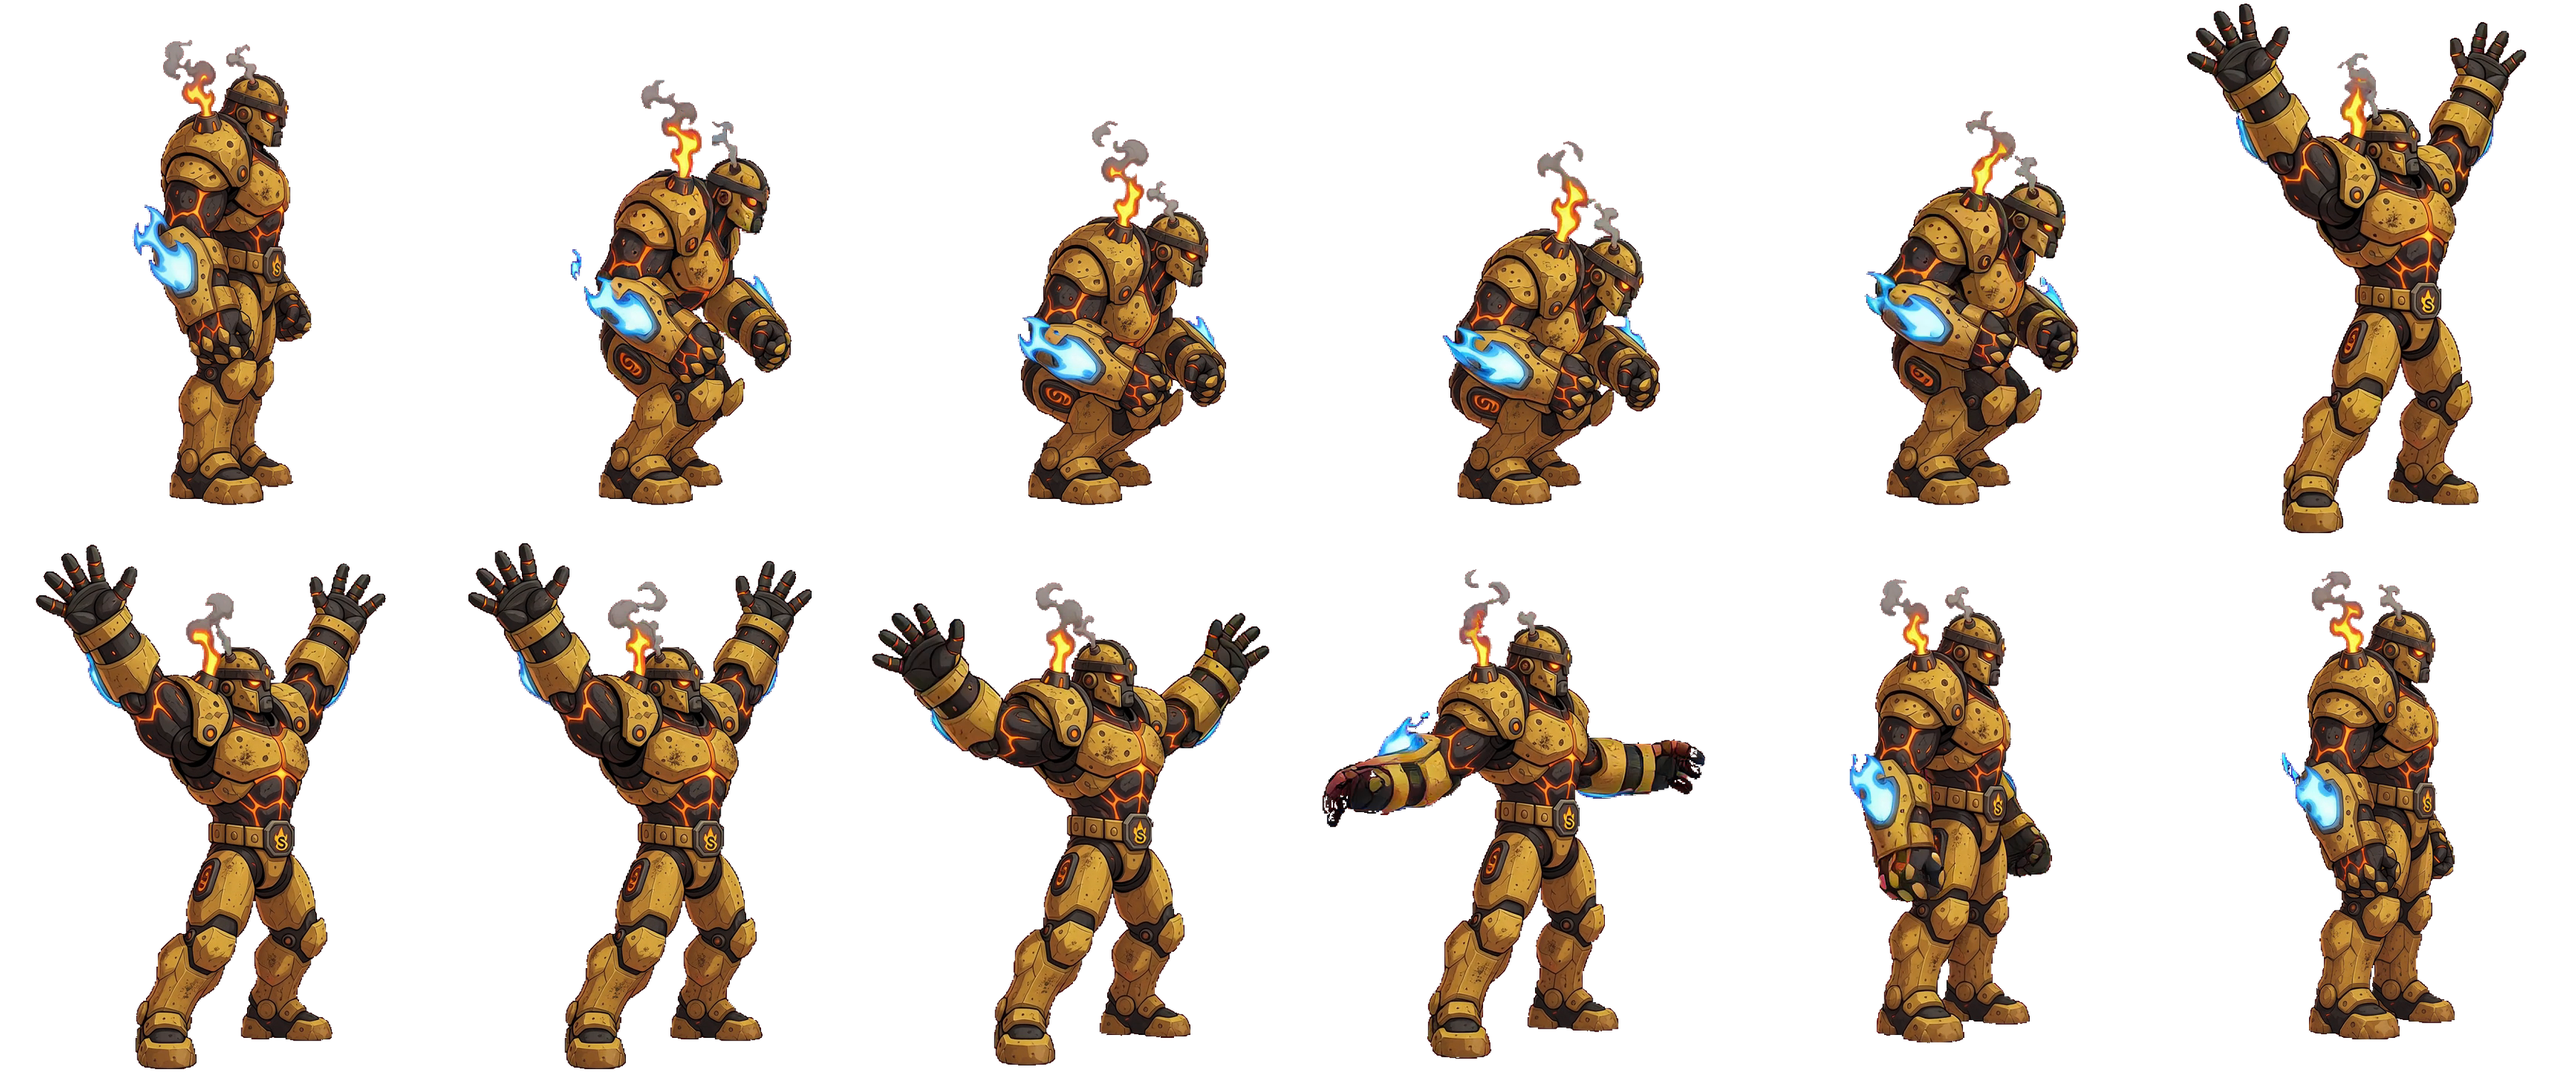
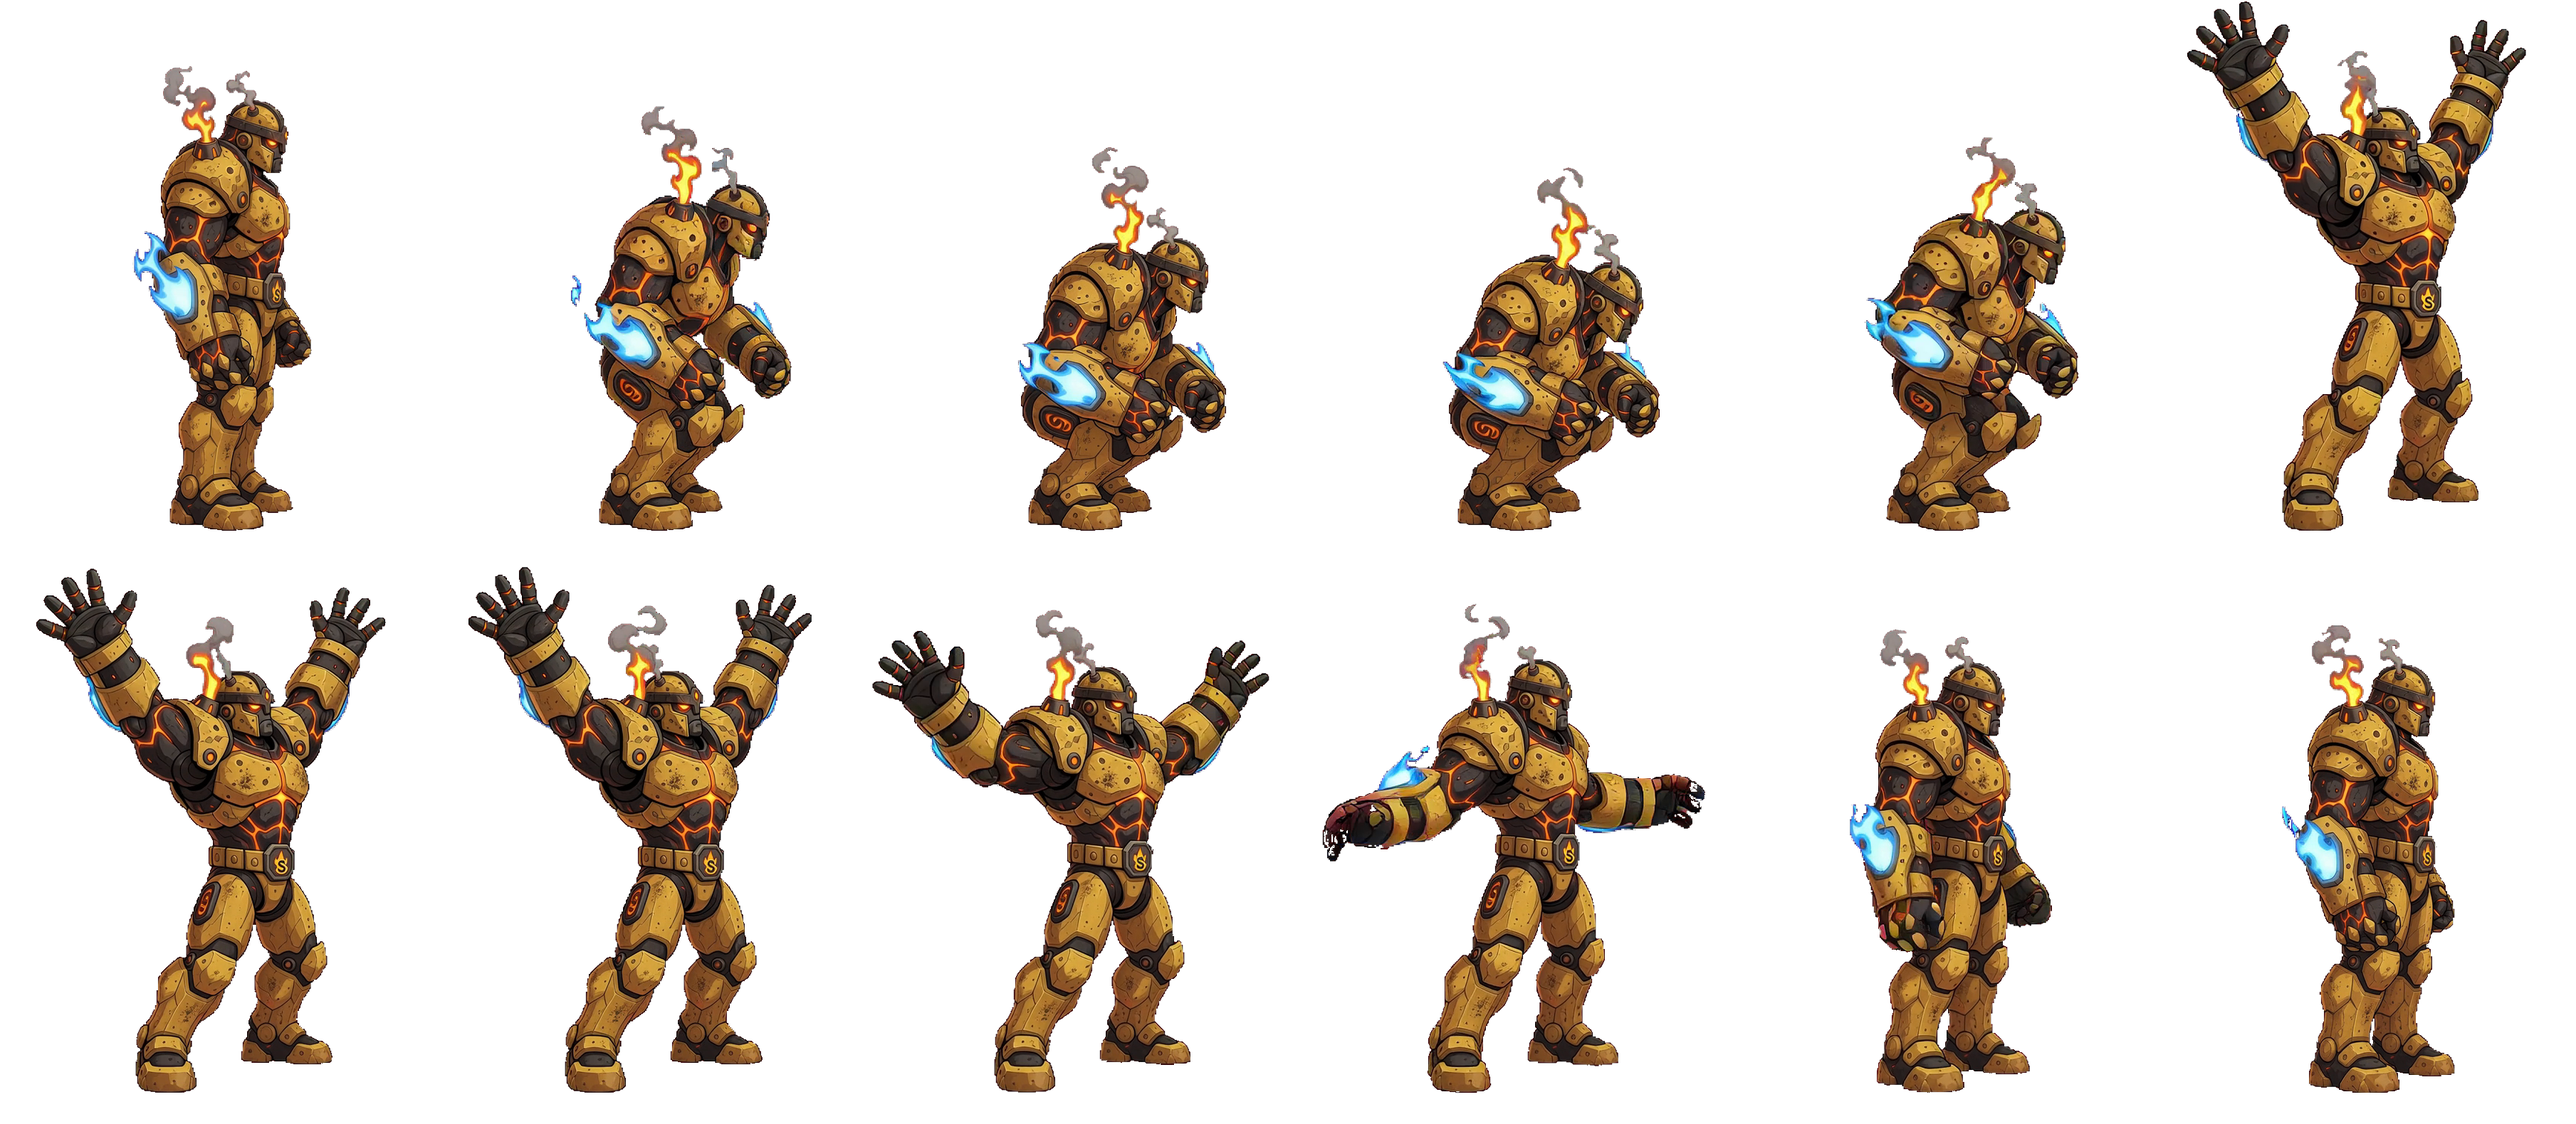
Give Chloe and Chroma walks, ground Liv's Hohlraum, and seat Sully's eruption.
Chloe and Chroma walk on their own right-facing sheets at the idle cell and sole. Liv's defense sheet is the grounded crouch with the new anchors. Sully's eruption cells are 603×790 with every sole on row 745, and the body scale stays the same.

diff --git a/src/data/moveSheets.js b/src/data/moveSheets.js
@@ -6526,151 +6526,151 @@ export const MOVE_SHEETS = {
         "fist": [
           [
             415,
-            401
+            437
           ],
           [
             477,
-            275
+            311
           ],
           [
             490,
-            347
+            383
           ],
           [
             498,
-            381
+            417
           ],
           [
             488,
-            306
+            342
           ],
           [
             532,
-            78
+            75
           ],
           [
             541,
-            89
+            86
           ],
           [
             536,
-            84
+            81
           ],
           [
             576,
-            161
+            163
           ],
           [
             585,
-            314
+            326
           ],
           [
             446,
-            400
+            434
           ],
           [
             413,
-            279
+            317
           ]
         ],
         "tip": [
           [
             437,
-            448
+            484
           ],
           [
             508,
-            482
+            518
           ],
           [
             515,
-            525
+            561
           ],
           [
             521,
-            535
+            571
           ],
           [
             507,
-            477
+            513
           ],
           [
             532,
-            78
+            75
           ],
           [
             541,
-            89
+            86
           ],
           [
             536,
-            84
+            81
           ],
           [
             576,
-            161
+            163
           ],
           [
             585,
-            314
+            326
           ],
           [
             469,
-            449
+            483
           ],
           [
             432,
-            454
+            492
           ]
         ],
         "feet": [
           [
             369,
-            708
+            745
           ],
           [
             369,
-            708
+            745
           ],
           [
             369,
-            708
+            745
           ],
           [
             369,
-            708
+            745
           ],
           [
             367,
-            708
+            745
           ],
           [
             465,
-            708
+            745
           ],
           [
             466,
-            708
+            745
           ],
           [
             467,
-            708
+            745
           ],
           [
             465,
-            708
+            745
           ],
           [
             463,
-            708
+            745
           ],
           [
             346,
-            708
+            745
           ],
           [
             354,
-            708
+            745
           ]
         ]
       }
@@ -10304,39 +10304,39 @@ export const MOVE_SHEETS = {
           ],
           [
             544,
-            528
+            538
           ],
           [
             539,
-            324
+            488
           ],
           [
             537,
-            333
+            497
           ],
           [
             537,
-            333
+            483
           ],
           [
             537,
-            333
+            477
           ],
           [
             538,
-            334
+            478
           ],
           [
             537,
-            333
+            477
           ],
           [
             537,
-            326
+            471
           ],
           [
             520,
-            378
+            416
           ],
           [
             517,
@@ -10354,39 +10354,39 @@ export const MOVE_SHEETS = {
           ],
           [
             544,
-            528
+            538
           ],
           [
             539,
-            324
+            488
           ],
           [
             537,
-            333
+            497
           ],
           [
             537,
-            333
+            483
           ],
           [
             537,
-            333
+            477
           ],
           [
             538,
-            334
+            478
           ],
           [
             537,
-            333
+            477
           ],
           [
             537,
-            326
+            471
           ],
           [
             520,
-            378
+            416
           ],
           [
             517,
@@ -10404,7 +10404,7 @@ export const MOVE_SHEETS = {
           ],
           [
             283,
-            988
+            998
           ],
           null,
           null,

diff --git a/src/data/characters.js b/src/data/characters.js
@@ -1860,7 +1860,8 @@ export const CHARACTERS = {
           attack: { count: 11, fps: 17, loop: false, frameW: 603, frameH: 724, footY: 0.9655, visibleH: 669, bodyH: 669, displayScale: 148 / 669 },
           charge: { count: 12, fps: 18, loop: false, frameW: 1041, frameH: 720, footY: 0.9722, visibleH: 669, bodyH: 669, displayScale: 148 / 669 },
           defense: { count: 12, fps: 18, loop: false, frameW: 603, frameH: 720, footY: 0.9722, visibleH: 669, bodyH: 669, displayScale: 148 / 669 },
-          special: { count: 12, fps: 18, loop: false, frameW: 603, frameH: 753, footY: 0.9416, visibleH: 669, bodyH: 669, displayScale: 148 / 669 },
+          // Eruption cells are 603×790 so the plume fits. Every sole sits on row 745.
+          special: { count: 12, fps: 18, loop: false, frameW: 603, frameH: 790, footY: 745 / 790, visibleH: 669, bodyH: 669, displayScale: 148 / 669 },
         },
       },
     },
@@ -1930,8 +1931,9 @@ export const CHARACTERS = {
         displayScale: 128 / 1032,
         clips: {
           // Approved idle faces right. sheetFacing keeps it unflipped.
-          // art.facing stays -1. There is no walk sheet.
+          // art.facing stays -1. The walk faces right and uses the same sole.
           idle: { count: 6, fps: 6, loop: true, frameW: 666, frameH: 1072, footY: 0.9879, visibleH: 1032, bodyH: 1032, displayScale: 128 / 1032, sheetFacing: 1 },
+          walk: { count: 12, fps: 9.93, loop: true, frameW: 666, frameH: 1072, footY: 0.9879, visibleH: 1032, bodyH: 1032, displayScale: 128 / 1032, sheetFacing: 1 },
           // Bleach Out, Salt Bond, Gas Cloud, and the jab face right. sheetFacing keeps them unflipped.
           attack: { count: 12, fps: 18, loop: false, frameW: 718, frameH: 1072, footY: 0.9879, visibleH: 1032, bodyH: 1032, displayScale: 128 / 1032, sheetFacing: 1 },
           charge: { count: 12, fps: 18, loop: false, frameW: 1188, frameH: 1072, footY: 0.9879, visibleH: 1032, bodyH: 1032, displayScale: 128 / 1032, sheetFacing: 1 },
@@ -2376,8 +2378,9 @@ export const CHARACTERS = {
         displayScale: 130 / 993,
         clips: {
           // Approved idle faces right. sheetFacing keeps it unflipped.
-          // art.facing stays -1. There is no walk sheet.
+          // art.facing stays -1. The walk faces right and uses the same sole.
           idle: { count: 6, fps: 6, loop: true, frameW: 666, frameH: 1036, footY: 0.9865, visibleH: 993, bodyH: 993, displayScale: 130 / 993, sheetFacing: 1 },
+          walk: { count: 12, fps: 11.52, loop: true, frameW: 666, frameH: 1036, footY: 0.9865, visibleH: 993, bodyH: 993, displayScale: 130 / 993, sheetFacing: 1 },
           // Ruby Laser, Mirror Chrome, Prismatic Shatter, and Chrome Edge face right and set sheetFacing.
           attack: { count: 12, fps: 18, loop: false, frameW: 1180, frameH: 1221, footY: 0.9885, visibleH: 993, bodyH: 993, displayScale: 130 / 993, sheetFacing: 1 },
           charge: { count: 12, fps: 18, loop: false, frameW: 784, frameH: 1036, footY: 0.9865, visibleH: 993, bodyH: 993, displayScale: 130 / 993, sheetFacing: 1 },

diff --git a/tests/move-sheet.test.js b/tests/move-sheet.test.js
@@ -1049,3 +1049,45 @@ test('van redo clips keep their own cells, and guard and redox use those frames'
   assert.deepEqual(sheetMeta('van', 'special').anchors.fist[5], [320, 277]);
   assert.deepEqual(sheetMeta('van', 'special').anchors.feet[5], [711, 725]);
 });
+
+test('rank 1-2 redraws use their own cells', () => {
+  const walks = {
+    chloe: { frameW: 666, frameH: 1072, footY: 0.9879, fps: 9.93, sheetFacing: 1, cols: 4, rows: 3 },
+    chroma: { frameW: 666, frameH: 1036, footY: 0.9865, fps: 11.52, sheetFacing: 1, cols: 4, rows: 3 },
+  };
+  for (const [id, spec] of Object.entries(walks)) {
+    const art = CHARACTERS[id].art;
+    const def = art.sheets.clips.walk;
+    const png = pngSize(`${art.sheets.dir}${id}_walk.png`);
+    assert.equal(def.frameW, spec.frameW, id);
+    assert.equal(def.frameH, spec.frameH, id);
+    assert.equal(def.footY, spec.footY, id);
+    assert.equal(def.fps, spec.fps, id);
+    assert.equal(def.loop, true, id);
+    assert.equal(def.count, 12, id);
+    assert.equal(def.sheetFacing, spec.sheetFacing, id);
+    assert.equal(def.displayScale, art.height / def.visibleH, id);
+    assert.equal(png.w, spec.frameW * spec.cols, id);
+    assert.equal(png.h, spec.frameH * spec.rows, id);
+    assert.equal(MOVE_SHEETS[id].walk, undefined, id);
+  }
+  const liv = CHARACTERS.liv.art.sheets.clips.defense;
+  const livPng = pngSize('art-src/imported/sheets/liv_defense.png');
+  assert.equal(liv.frameW, 668);
+  assert.equal(liv.frameH, 1011);
+  assert.equal(liv.footY, 0.9792);
+  assert.equal(livPng.w, 668 * 6);
+  assert.equal(livPng.h, 1011 * 2);
+  assert.deepEqual(sheetMeta('liv', 'defense').anchors.fist[1], [544, 538]);
+  assert.deepEqual(sheetMeta('liv', 'defense').anchors.feet[1], [283, 998]);
+  const eruption = CHARACTERS.sully.art.sheets.clips.special;
+  const eruptionPng = pngSize('art-src/gemini-test/sheets/sully_special.png');
+  assert.equal(eruption.frameW, 603);
+  assert.equal(eruption.frameH, 790);
+  assert.equal(eruption.footY, 745 / 790);
+  assert.equal(eruption.displayScale, CHARACTERS.sully.art.height / eruption.visibleH);
+  assert.equal(eruptionPng.w, 603 * 6);
+  assert.equal(eruptionPng.h, 790 * 2);
+  assert.deepEqual(sheetMeta('sully', 'special').anchors.feet[0], [369, 745]);
+  assert.deepEqual(sheetMeta('sully', 'special').anchors.fist[8], [576, 163]);
+});
